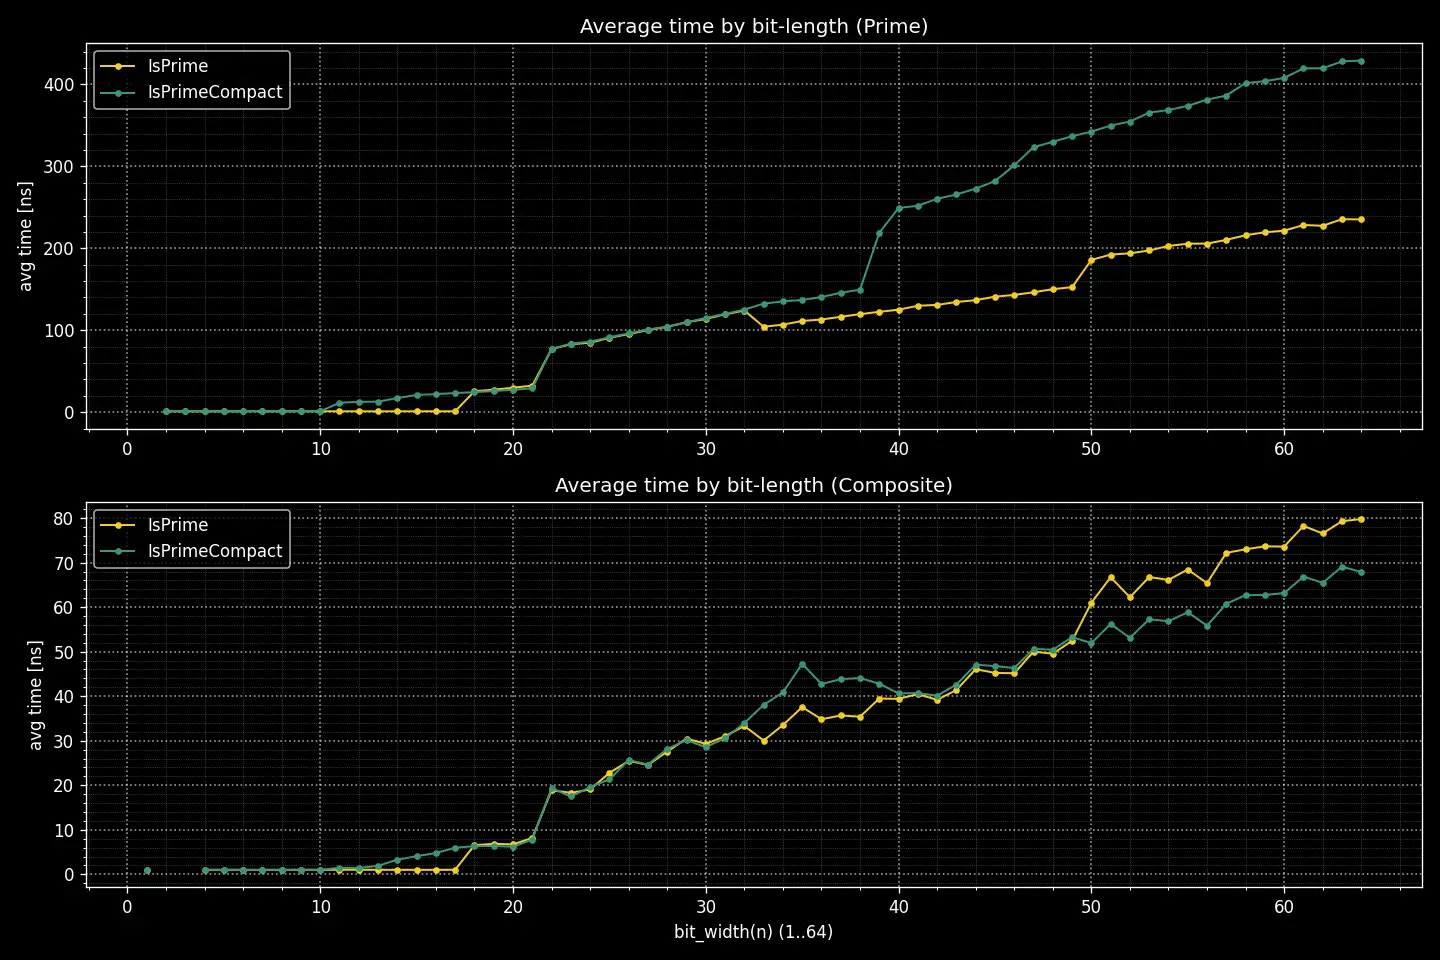
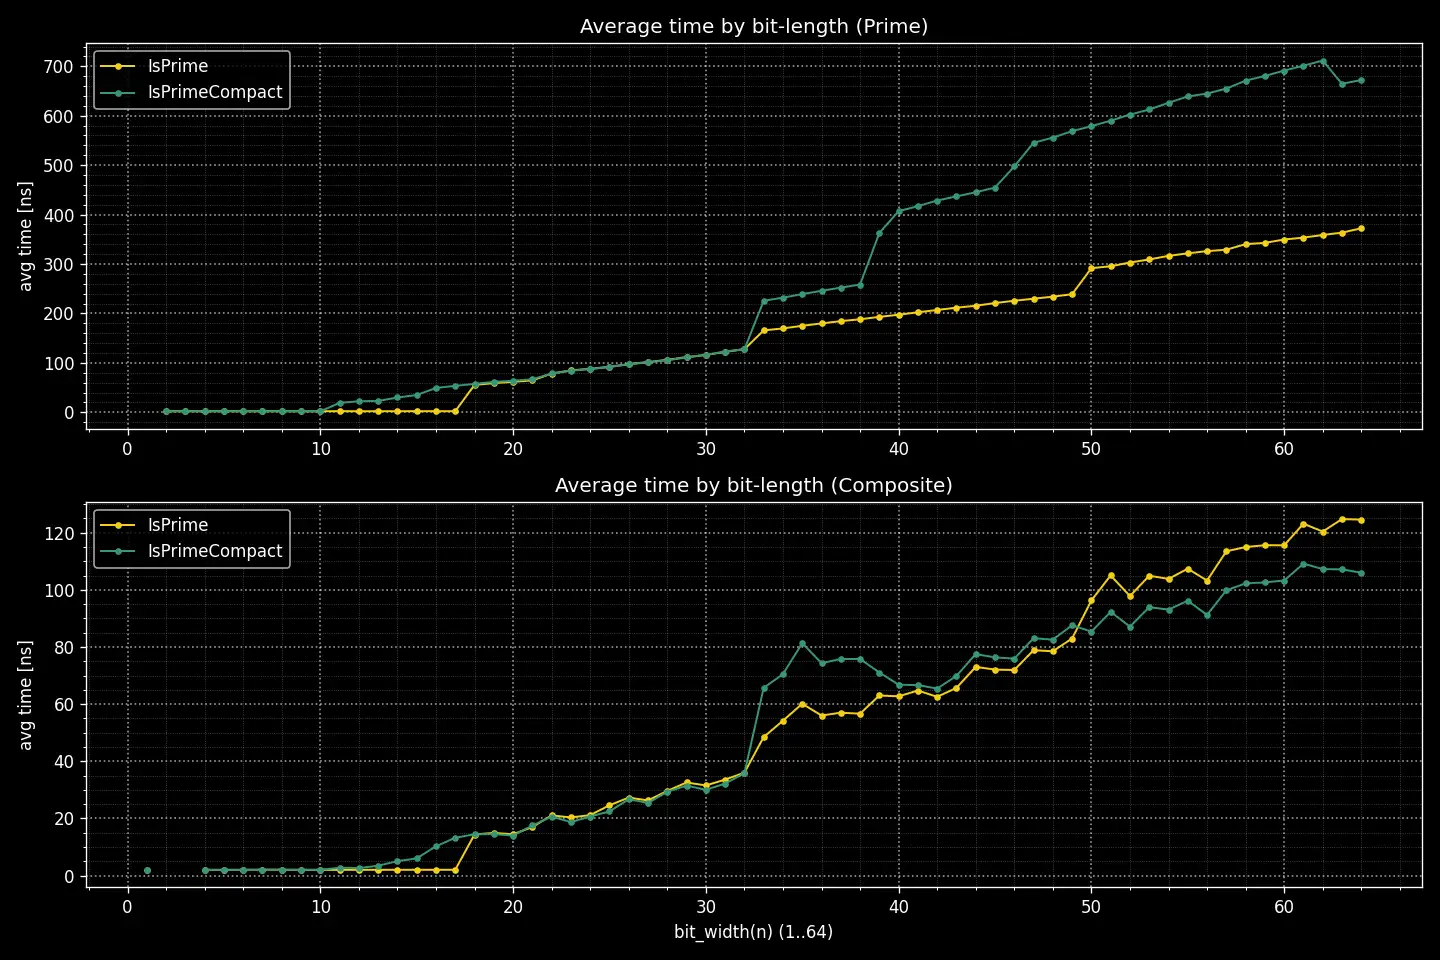
chore(bench): publish run 36737118206 ee572904996a7d12ae93e95133117158b0132455

diff --git a/benchmarks/latest/benchmark-Linux-clang/bench_summary.md b/benchmarks/latest/benchmark-Linux-clang/bench_summary.md
@@ -2,19 +2,19 @@
 
 ## Overall summary
 
-- IsPrime averages 137.56 ns on prime inputs and 45.57 ns on composite inputs.
-- IsPrimeCompact averages 241.08 ns on prime inputs and 45.39 ns on composite inputs.
+- IsPrime averages 156.21 ns on prime inputs and 51.40 ns on composite inputs.
+- IsPrimeCompact averages 271.13 ns on prime inputs and 50.62 ns on composite inputs.
 
 ## Averages by 8-bit range (nanoseconds)
 
 | Bit range | IsPrime (prime) | IsPrimeCompact (prime) | IsPrime (composite) | IsPrimeCompact (composite) |
 |-----------|-----------------|------------------------|---------------------|----------------------------|
-| 1-8 | 1.91 | 2.29 | 1.90 | 2.29 |
-| 9-16 | 1.90 | 21.14 | 1.90 | 4.74 |
-| 17-24 | 56.08 | 66.65 | 14.18 | 16.83 |
-| 25-32 | 96.63 | 97.12 | 26.53 | 26.66 |
-| 33-40 | 153.01 | 235.10 | 48.86 | 63.34 |
-| 41-48 | 183.40 | 392.98 | 60.17 | 65.42 |
-| 49-56 | 267.13 | 497.25 | 89.62 | 78.46 |
-| 57-62 | 307.98 | 558.26 | 105.30 | 89.16 |
-| 63-64 | 369.91 | 670.16 | 126.07 | 111.08 |
+| 1-8 | 2.12 | 2.47 | 2.11 | 2.47 |
+| 9-16 | 2.10 | 21.23 | 2.11 | 4.98 |
+| 17-24 | 62.43 | 72.02 | 15.52 | 18.02 |
+| 25-32 | 109.05 | 108.94 | 29.60 | 29.74 |
+| 33-40 | 176.48 | 265.08 | 55.68 | 71.17 |
+| 41-48 | 211.71 | 441.86 | 68.83 | 72.85 |
+| 49-56 | 302.57 | 560.79 | 101.09 | 87.46 |
+| 57-62 | 348.15 | 630.20 | 118.67 | 99.47 |
+| 63-64 | 411.53 | 761.51 | 139.74 | 126.53 |

diff --git a/benchmarks/latest/benchmark-Windows-msvc/bench_summary.md b/benchmarks/latest/benchmark-Windows-msvc/bench_summary.md
@@ -2,19 +2,19 @@
 
 ## Overall summary
 
-- IsPrime averages 104.68 ns on prime inputs and 33.59 ns on composite inputs.
-- IsPrimeCompact averages 176.38 ns on prime inputs and 32.32 ns on composite inputs.
+- IsPrime averages 155.79 ns on prime inputs and 51.21 ns on composite inputs.
+- IsPrimeCompact averages 284.72 ns on prime inputs and 50.92 ns on composite inputs.
 
 ## Averages by 8-bit range (nanoseconds)
 
 | Bit range | IsPrime (prime) | IsPrimeCompact (prime) | IsPrime (composite) | IsPrimeCompact (composite) |
 |-----------|-----------------|------------------------|---------------------|----------------------------|
-| 1-8 | 1.02 | 1.02 | 1.00 | 1.01 |
-| 9-16 | 1.01 | 12.40 | 1.01 | 2.37 |
-| 17-24 | 45.09 | 47.08 | 10.69 | 11.14 |
-| 25-32 | 107.17 | 107.79 | 28.06 | 27.88 |
-| 33-40 | 114.87 | 163.56 | 35.74 | 42.53 |
-| 41-48 | 139.06 | 285.96 | 44.64 | 45.58 |
-| 49-56 | 192.01 | 359.18 | 63.64 | 55.42 |
-| 57-62 | 220.54 | 406.59 | 74.54 | 63.61 |
-| 63-64 | 235.37 | 428.67 | 79.55 | 68.49 |
+| 1-8 | 2.27 | 2.01 | 2.02 | 2.00 |
+| 9-16 | 2.22 | 22.85 | 2.01 | 4.27 |
+| 17-24 | 61.75 | 69.23 | 15.67 | 16.72 |
+| 25-32 | 109.33 | 109.24 | 30.20 | 29.18 |
+| 33-40 | 181.69 | 277.85 | 57.29 | 72.68 |
+| 41-48 | 218.38 | 472.57 | 70.94 | 74.69 |
+| 49-56 | 300.30 | 607.81 | 100.20 | 90.87 |
+| 57-62 | 345.60 | 685.06 | 117.22 | 104.08 |
+| 63-64 | 367.88 | 668.37 | 124.68 | 106.59 |

diff --git a/benchmarks/latest/benchmark-Windows-clang-cl/bench_summary.md b/benchmarks/latest/benchmark-Windows-clang-cl/bench_summary.md
@@ -2,19 +2,19 @@
 
 ## Overall summary
 
-- IsPrime averages 148.49 ns on prime inputs and 49.46 ns on composite inputs.
-- IsPrimeCompact averages 256.06 ns on prime inputs and 47.71 ns on composite inputs.
+- IsPrime averages 144.46 ns on prime inputs and 47.30 ns on composite inputs.
+- IsPrimeCompact averages 234.19 ns on prime inputs and 44.65 ns on composite inputs.
 
 ## Averages by 8-bit range (nanoseconds)
 
 | Bit range | IsPrime (prime) | IsPrimeCompact (prime) | IsPrime (composite) | IsPrimeCompact (composite) |
 |-----------|-----------------|------------------------|---------------------|----------------------------|
-| 1-8 | 3.20 | 2.04 | 3.27 | 2.18 |
-| 9-16 | 3.25 | 20.42 | 3.20 | 4.30 |
-| 17-24 | 57.55 | 62.26 | 14.91 | 15.52 |
-| 25-32 | 99.37 | 99.21 | 27.60 | 26.66 |
-| 33-40 | 170.34 | 252.09 | 54.23 | 67.24 |
-| 41-48 | 204.80 | 423.84 | 67.05 | 70.33 |
-| 49-56 | 290.66 | 533.51 | 97.32 | 84.44 |
-| 57-62 | 333.67 | 599.10 | 114.13 | 96.09 |
-| 63-64 | 361.30 | 696.06 | 123.88 | 110.41 |
+| 1-8 | 2.41 | 1.43 | 2.39 | 1.34 |
+| 9-16 | 2.35 | 17.68 | 2.36 | 3.40 |
+| 17-24 | 60.08 | 64.22 | 15.06 | 15.37 |
+| 25-32 | 137.99 | 139.89 | 36.93 | 36.45 |
+| 33-40 | 150.22 | 223.19 | 47.53 | 59.63 |
+| 41-48 | 179.50 | 380.37 | 58.62 | 63.78 |
+| 49-56 | 276.93 | 469.47 | 92.49 | 76.42 |
+| 57-62 | 321.98 | 525.58 | 109.34 | 86.78 |
+| 63-64 | 348.03 | 615.99 | 119.21 | 99.67 |

diff --git a/benchmarks/latest/benchmark-Linux-gcc/bench_summary.md b/benchmarks/latest/benchmark-Linux-gcc/bench_summary.md
@@ -2,19 +2,19 @@
 
 ## Overall summary
 
-- IsPrime averages 137.54 ns on prime inputs and 45.57 ns on composite inputs.
-- IsPrimeCompact averages 241.09 ns on prime inputs and 45.49 ns on composite inputs.
+- IsPrime averages 137.53 ns on prime inputs and 45.58 ns on composite inputs.
+- IsPrimeCompact averages 241.07 ns on prime inputs and 45.36 ns on composite inputs.
 
 ## Averages by 8-bit range (nanoseconds)
 
 | Bit range | IsPrime (prime) | IsPrimeCompact (prime) | IsPrime (composite) | IsPrimeCompact (composite) |
 |-----------|-----------------|------------------------|---------------------|----------------------------|
-| 1-8 | 1.90 | 2.41 | 1.90 | 2.40 |
-| 9-16 | 1.90 | 21.20 | 1.90 | 4.86 |
-| 17-24 | 55.98 | 66.65 | 14.17 | 16.93 |
-| 25-32 | 96.68 | 97.12 | 26.54 | 26.76 |
-| 33-40 | 153.01 | 235.11 | 48.86 | 63.42 |
-| 41-48 | 183.41 | 392.92 | 60.17 | 65.51 |
-| 49-56 | 267.05 | 497.28 | 89.62 | 78.54 |
-| 57-62 | 307.98 | 558.16 | 105.31 | 89.24 |
-| 63-64 | 369.94 | 670.38 | 126.08 | 111.16 |
+| 1-8 | 1.90 | 2.28 | 1.91 | 2.25 |
+| 9-16 | 1.90 | 21.13 | 1.90 | 4.70 |
+| 17-24 | 55.99 | 66.60 | 14.19 | 16.79 |
+| 25-32 | 96.63 | 97.16 | 26.55 | 26.63 |
+| 33-40 | 153.04 | 235.15 | 48.85 | 63.31 |
+| 41-48 | 183.40 | 392.95 | 60.18 | 65.39 |
+| 49-56 | 267.03 | 497.23 | 89.63 | 78.42 |
+| 57-62 | 307.92 | 558.19 | 105.31 | 89.13 |
+| 63-64 | 369.90 | 670.16 | 126.08 | 111.05 |
